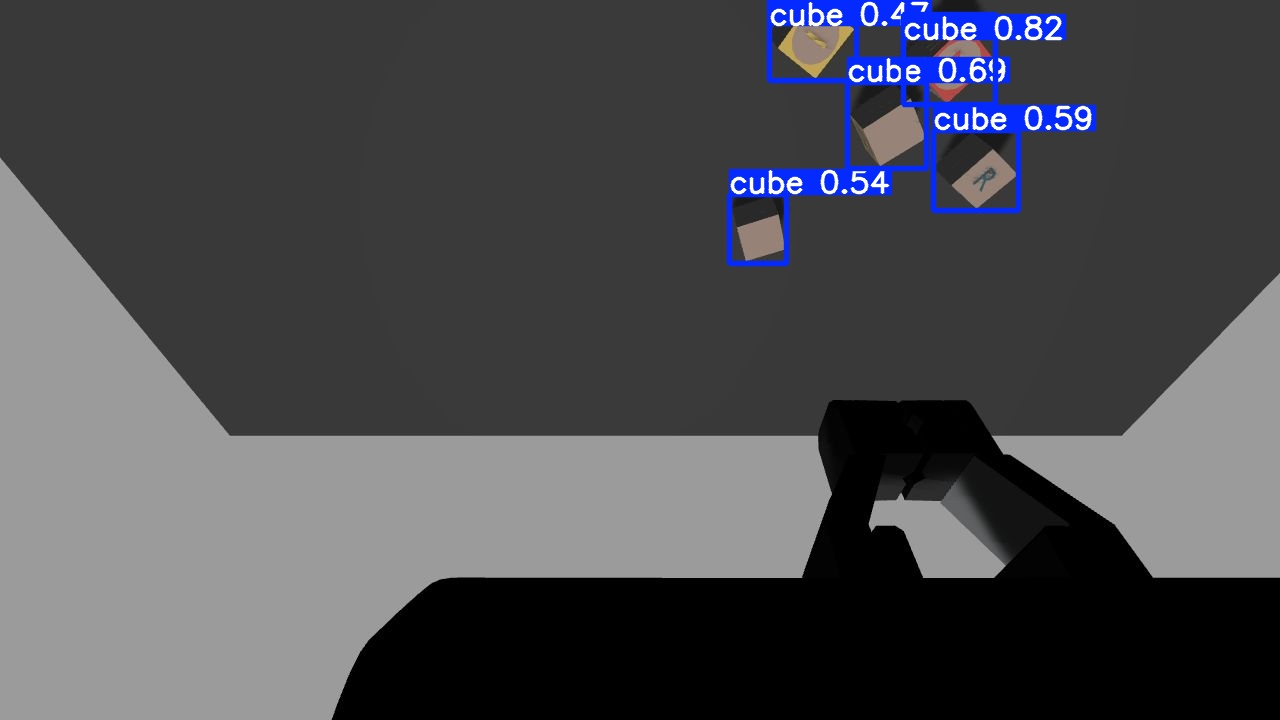
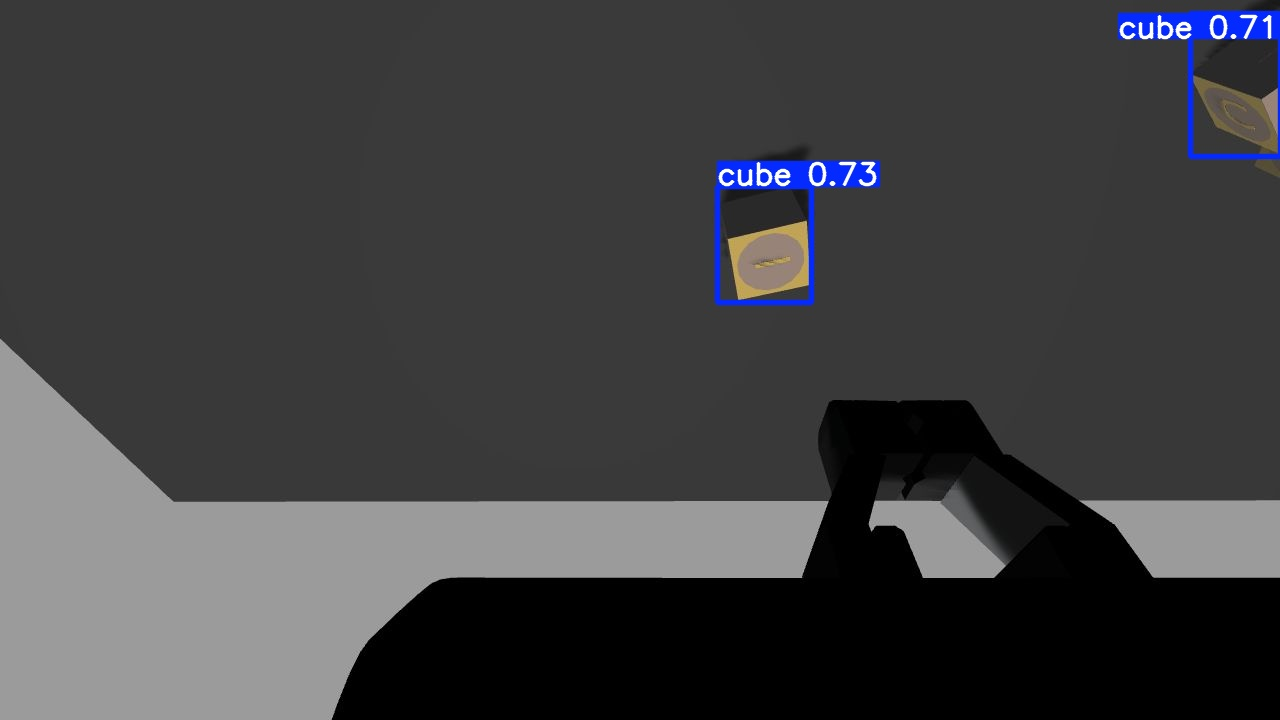
fix transformations for simulation

diff --git a/scripts/perception.py b/scripts/perception.py
@@ -53,7 +53,7 @@ class Perception:
         self._tf_listener = TransformListener()
         self._source_frame = "world"
         if args_cli.sim_mode:
-            self._target_frame = "left_camera_link_optical"
+            self._target_frame = "left_camera_link"
         else:
             self._target_frame = "zed2_left_camera_frame"
 
@@ -267,24 +267,33 @@ class Perception:
         #     extrinsic_rotation.T @ points_base_frame[:, :3].T
         # ).T + extrinsic_translation
 
-        
-
-        if args_cli.sim_mode:
-            extrinsic_rotation = R.from_quat([0.658734, 0.658652, 0.257135, 0.257155]).as_matrix()
-            extrinsic_translation = np.array([0.209647, -0.0600195, 0.56205])
-            points_base_frame = (extrinsic_rotation @ filtered_points[:, :3].T).T + extrinsic_translation
-        else:
-            t = self._tf_listener.getLatestCommonTime(
+        t = self._tf_listener.getLatestCommonTime(
             self._source_frame, self._target_frame
             )
-            trans = self._tf_listener.lookupTransform(
-                self._source_frame, self._target_frame, t
-            )
+        trans = self._tf_listener.lookupTransform(
+            self._source_frame, self._target_frame, t
+        )
 
             # print(trans.transform)
 
-            translation = trans[0]
-            rotation = trans[1]
+        translation = trans[0]
+        rotation = trans[1]
+
+        if args_cli.sim_mode:
+            # extrinsic_rotation = R.from_quat([0.658734, 0.658652, 0.257135, 0.257155]).as_matrix()
+            # extrinsic_translation = np.array([0.209647, -0.0600195, 0.56205])
+            # points_base_frame = (extrinsic_rotation @ filtered_points[:, :3].T).T + extrinsic_translation
+            extrinsic_rotation_init = R.from_quat([0.500, -0.500, 0.500, 0.500]).as_matrix()
+            extrinsic_rotation = R.from_quat(
+                rotation
+            ).as_matrix()  # rosrun tf tf_echo world zed2_left_camera_frame
+            extrinsic_translation = np.array(translation)
+            points_base_frame = (extrinsic_rotation_init.T @ filtered_points[:, :3].T).T
+            points_base_frame = (
+                extrinsic_rotation.T @ points_base_frame[:, :3].T
+            ).T + extrinsic_translation
+        else:
+            
             extrinsic_rotation_init = R.from_quat([0.500, -0.500, 0.500, 0.500]).as_matrix()
             extrinsic_rotation = R.from_quat(
                 rotation
